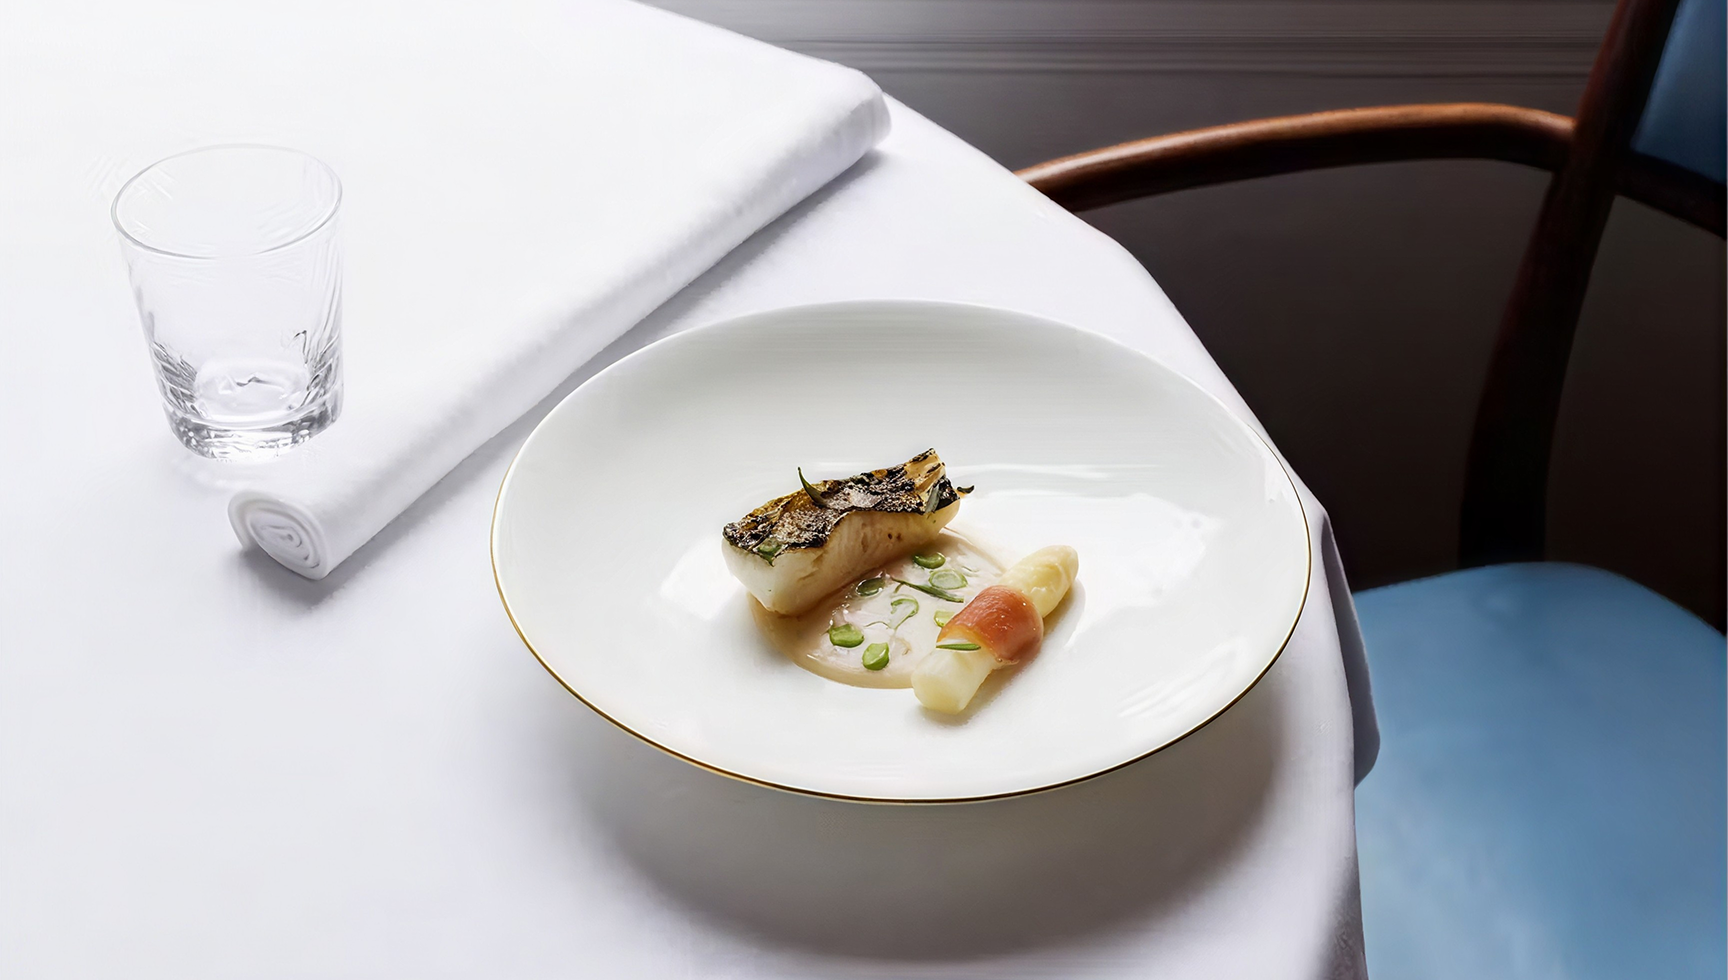
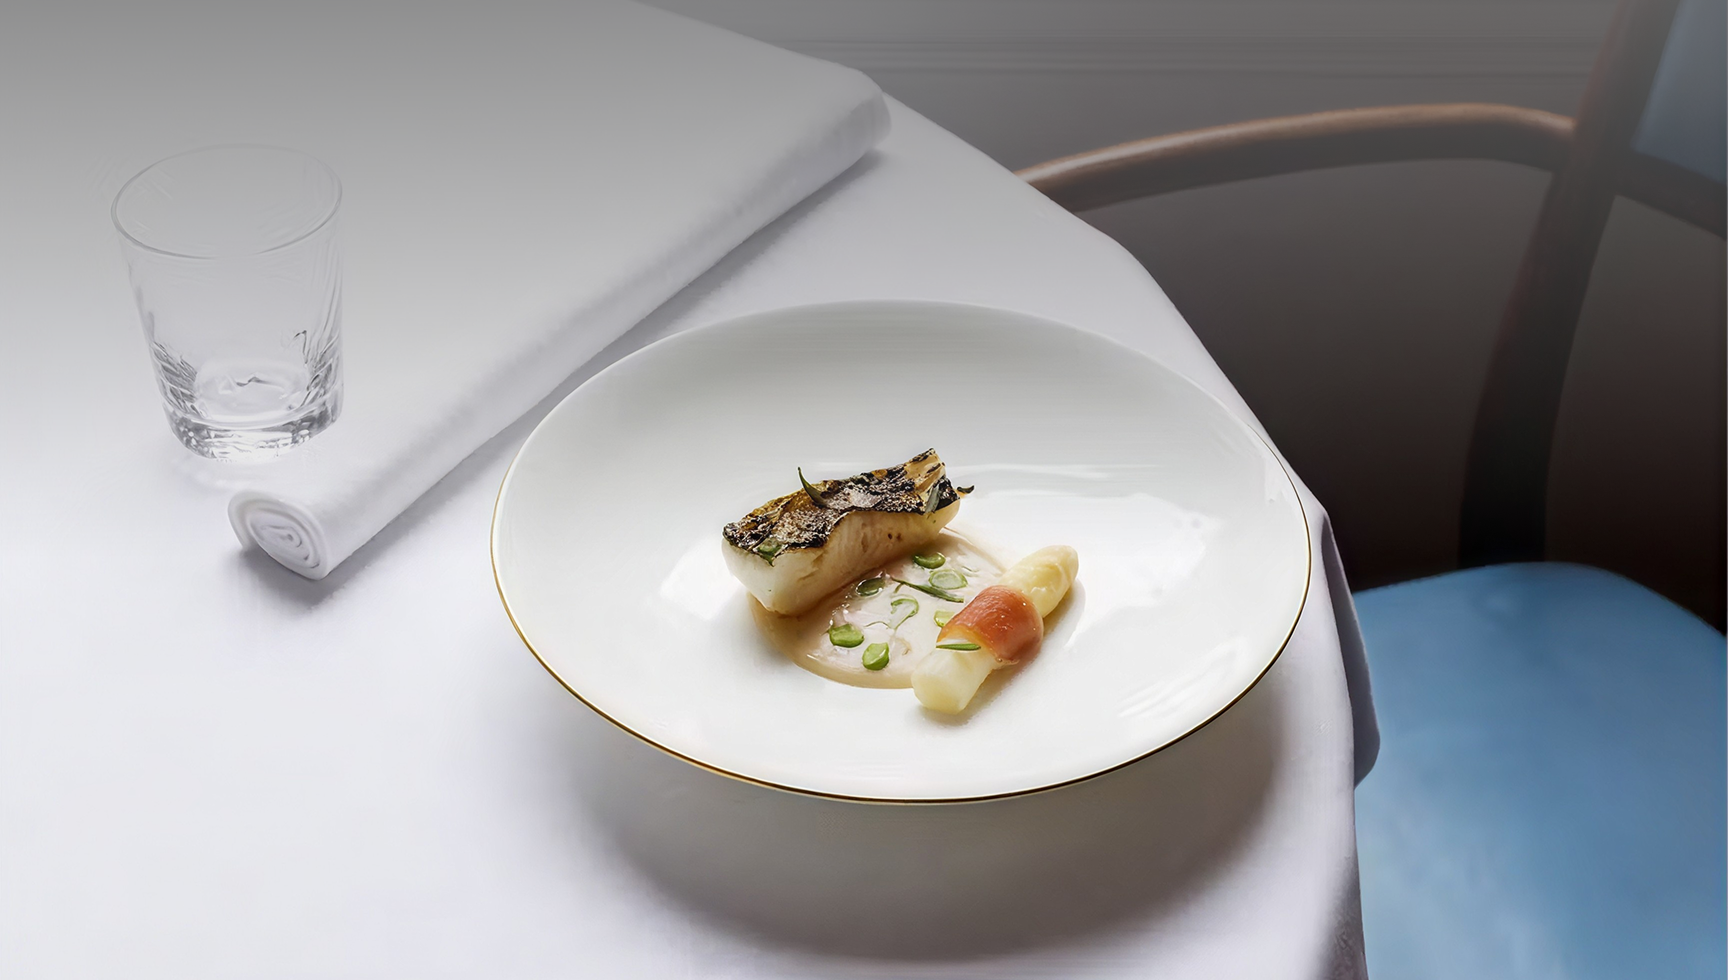
responsive-implementation
starting... incomplete.

diff --git a/css/stylesheet.scss b/css/stylesheet.scss
@@ -1,5 +1,8 @@
 @import url('https://fonts.googleapis.com/css2?family=Cormorant:ital,wght@0,300..700;1,300..700&family=Manrope:wght@200..800&display=swap');
 
+$bp-tablet: 768px;
+$bp-desktop: 1024px;
+
 $brand-color1: #084794;
 $brand-color2: #FAF4ED;
 $line-height: 1.6;
@@ -122,6 +125,13 @@ ul {
     letter-spacing: 0.2em;
     padding: 1rem 1rem;
 }
+
+/* nav - mobile menu css */
+
+.nav__toggle {
+    display: none;
+}
+
 
         /*  homepage - hero css */
 
@@ -402,11 +412,20 @@ ul {
 
 /* menu page css */
 
-.menu-hero {
+.menu_nav {
     background-image: url('../media/menu-cover.png');
     background-size: cover;
     background-position: center;
-    min-height: 80vh;   
+    padding: 2rem 4.5rem 60vh;  
+}
+
+.menu_nav .nav__links a {
+    color: $brand-color2;
+}
+
+.menu-nav-links__reserve {
+    border: 2px solid $brand-color2;
+    padding: 1rem;
 }
 
 .menu-intro {
@@ -525,6 +544,19 @@ ul {
     transition-delay: 0.3s;
 }
 
+.menu__images {
+    display: flex;
+    justify-content: center;
+    width: 100%;
+}
+
+.menu__images img {
+    width: 25%;
+    height: auto;
+    display: block;
+}
+
+
 
 /* footer css*/
 
@@ -606,4 +638,75 @@ ul {
 .footer__copyright {
     margin-top: 2rem;
     font-size: 0.9rem;
+}
+
+
+/* media queries */
+
+@media (max-width: $bp-tablet) {
+
+    nav {
+        padding: 1.5rem;
+    }
+
+    .lettermark {
+        font-size: 1.75rem;
+        text-transform: uppercase;
+        margin: 0;
+    }
+
+    .nav__toggle {
+        display: flex;
+        flex-direction: column;
+        gap: 6px;
+        background: none;
+        border: none;
+        padding: 0.5rem;
+        cursor: pointer;
+        color: $brand-color1;
+        position: relative;
+        z-index: 3;
+    }
+
+    .nav__toggle span {
+        display: block;
+        width: 25px;
+        height: 3px;
+        background-color: $brand-color1;
+    }
+
+    .nav__toggle[aria-expanded="true"] {
+        color: $brand-color2;
+    }
+
+    .nav__links {
+        display: none;
+    }
+
+    .nav__links.is-open {
+        display: flex;
+        position: fixed;
+        inset: 0;
+        z-index: 2;
+        flex-direction: column;
+        justify-content: center;
+        align-items: center;
+        background-color: $brand-color1;
+    }
+
+    .nav__links.is-open ul {
+        flex-direction: column;
+        align-items: center;
+        gap: 1.5rem;
+        padding: 0;
+    }
+
+    .nav__links.is-open a {
+        color: $brand-color2;
+    }
+
+    .nav__links.is-open li:last-child a {
+        border: 2px solid $brand-color2;
+        padding: 1rem 1.5rem;
+    }
 }

diff --git a/css/stylesheet.css b/css/stylesheet.css
@@ -108,6 +108,11 @@ ul {
   padding: 1rem 1rem;
 }
 
+/* nav - mobile menu css */
+.nav__toggle {
+  display: none;
+}
+
 /*  homepage - hero css */
 .hero {
   background-image: url("../media/homepage-hero.png");
@@ -375,11 +380,20 @@ ul {
 }
 
 /* menu page css */
-.menu-hero {
+.menu_nav {
   background-image: url("../media/menu-cover.png");
   background-size: cover;
   background-position: center;
-  min-height: 80vh;
+  padding: 2rem 4.5rem 60vh;
+}
+
+.menu_nav .nav__links a {
+  color: #FAF4ED;
+}
+
+.menu-nav-links__reserve {
+  border: 2px solid #FAF4ED;
+  padding: 1rem;
 }
 
 .menu-intro {
@@ -498,6 +512,18 @@ ul {
   transition-delay: 0.3s;
 }
 
+.menu__images {
+  display: flex;
+  justify-content: center;
+  width: 100%;
+}
+
+.menu__images img {
+  width: 25%;
+  height: auto;
+  display: block;
+}
+
 /* footer css*/
 .footer {
   display: flex;
@@ -578,4 +604,63 @@ ul {
 .footer__copyright {
   margin-top: 2rem;
   font-size: 0.9rem;
+}
+
+/* media queries */
+@media (max-width: 768px) {
+  nav {
+    padding: 1.5rem;
+  }
+  .lettermark {
+    font-size: 1.75rem;
+    text-transform: uppercase;
+    margin: 0;
+  }
+  .nav__toggle {
+    display: flex;
+    flex-direction: column;
+    gap: 6px;
+    background: none;
+    border: none;
+    padding: 0.5rem;
+    cursor: pointer;
+    color: #084794;
+    position: relative;
+    z-index: 3;
+  }
+  .nav__toggle span {
+    display: block;
+    width: 25px;
+    height: 3px;
+    background-color: #084794;
+  }
+  .nav__toggle[aria-expanded=true] {
+    color: #FAF4ED;
+  }
+  .nav__links {
+    display: none;
+  }
+  .nav__links.is-open {
+    display: flex;
+    position: fixed;
+    inset: 0;
+    z-index: 2;
+    flex-direction: column;
+    justify-content: center;
+    align-items: center;
+    background-color: #084794;
+  }
+  .nav__links.is-open ul {
+    flex-direction: column;
+    align-items: center;
+    gap: 1.5rem;
+    padding: 0;
+  }
+  .nav__links.is-open a {
+    color: #FAF4ED;
+  }
+  .nav__links.is-open li:last-child a {
+    border: 2px solid #FAF4ED;
+    padding: 1rem 1.5rem;
+  }
 }/*# sourceMappingURL=stylesheet.css.map */

diff --git a/html/menu.html b/html/menu.html
@@ -8,21 +8,26 @@
 </head>
 
 <body>
-    <header class="menu-hero">
-    <nav>
+    <nav class="menu_nav">
         <div class="Logo">
             <h1 class="lettermark">The Clove Club</h1>
         </div>
+
+        <button class="nav__toggle" aria-expanded="false" aria-label="open menu">
+            <span></span>
+            <span></span>
+            <span></span>
+        </button>
+
         <div class="nav__links">
             <ul>
-            <li><a href="../html/homepage.html" class="menu-nav__links">Home</a></li>
-            <li><a href="../html/menu.html" class="menu-nav__links">Menu</a></li>
-            <li><a href="../html/about.html" class="menu-nav__links">About</a></li>
-            <li><a href="https://www.opentable.co.uk/r/the-clove-club?ref=4208" target="_blank" class="menu-nav__reserve-link">Reservations</a></li>
+            <li><a href="../html/homepage.html" class="menu-nav-links">Home</a></li>
+            <li><a href="../html/menu.html" class="menu-nav-links">Menu</a></li>
+            <li><a href="../html/about.html" class="menu-nav-links">About</a></li>
+            <li><a href="https://www.opentable.co.uk/r/the-clove-club?ref=4208" target="_blank" class="menu-nav-links__reserve">Reservations</a></li>
             </ul>
         </div>
     </nav>
-    </header>
 
     <section class="menu-intro">
         <h1 class="menu-intro__title">Our Menus</h1>
@@ -144,6 +149,13 @@
 
 <script src="../javascript/menu.js"></script>
 
+<div class="menu__images">
+    <img src="../media/menu1.png" alt="menu image 1">
+    <img src="../media/menu2.png" alt="menu image 2">
+    <img src="../media/menu3.png" alt="menu image 3">
+    <img src="../media/menu4.png" alt="menu image 4">
+</div>
+
 
 
         <section class="footer">
@@ -188,5 +200,7 @@
                 </div>
             </div>
         </section>
+
+        <script src="../javascript/nav.js"></script>
 </body>
 </html>

diff --git a/html/about.html b/html/about.html
@@ -12,6 +12,13 @@
         <div class="Logo">
             <h1 class="lettermark__about">The Clove Club</h1>
         </div>
+
+        <button class="nav__toggle" aria-expanded="false" aria-label="open menu">
+            <span></span>
+            <span></span>
+            <span></span>
+        </button>
+
         <div class="nav__links">
             <ul>
             <li><a href="../html/homepage.html" class="nav__home">Home</a></li>
@@ -105,5 +112,8 @@
                 </div>
             </div>
         </section>
+
+<script src="../javascript/nav.js"></script>
+
 </body>
 </html>

diff --git a/html/homepage.html b/html/homepage.html
@@ -12,6 +12,13 @@
         <div class="Logo">
             <h1 class="lettermark">The Clove Club</h1>
         </div>
+
+        <button class="nav__toggle" aria-expanded="false" aria-label="open menu">
+            <span></span>
+            <span></span>
+            <span></span>
+        </button>
+
         <div class="nav__links">
             <ul>
             <li><a href="homepage.html" class="nav__home">Home</a></li>
@@ -112,5 +119,7 @@
                 </div>
             </div>
         </section>
+
+        <script src="../javascript/nav.js"></script>
 </body>
 </html>

diff --git a/javascript/nav.js b/javascript/nav.js
@@ -1,0 +1,8 @@
+const toggle=document.querySelector('.nav__toggle');
+const links=document.querySelector('.nav__links');
+
+toggle.addEventListener('click',()=>{
+    const isOpen = links.classList.toggle('is-open');
+    toggle.setAttribute('aria-expanded', isOpen);
+    toggle.setAttribute('aria-label', isOpen ? 'close menu' : 'open menu');
+});
